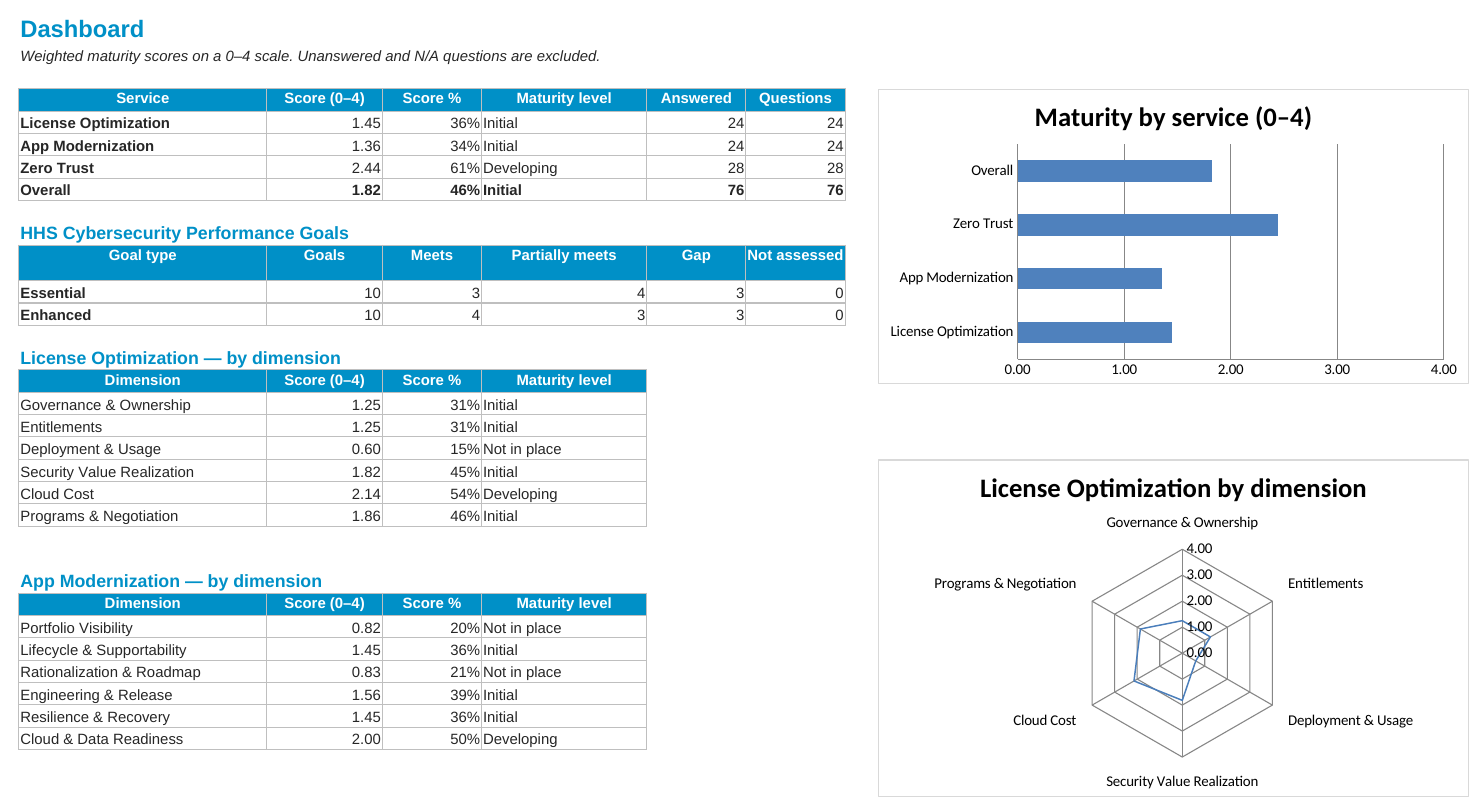
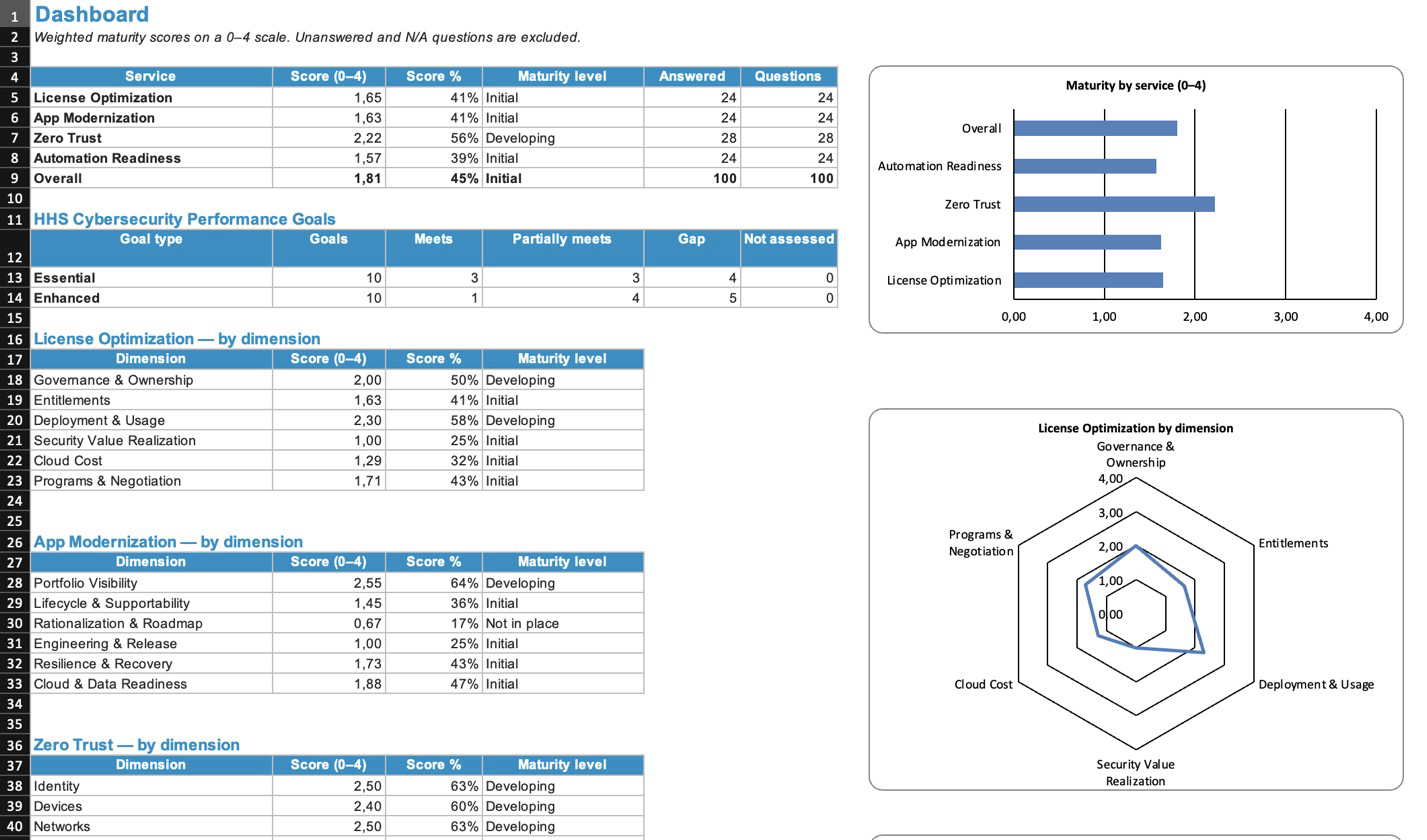
Refresh README screenshots and fix Excel chart display
Recapture the Dashboard and CPG Crosswalk images from the current
four-area workbook (illustrative sample answers, shown in Excel).

The Dashboard charts rendered poorly in Excel: openpyxl does not write the
axis "delete" flag, so the axis labels were hidden, and chart titles
overlapped the plot area. Set the flags, keep one colour per series, and give
the radar charts more height. Rebuild the workbook and its stored values.

diff --git a/tools/build_workbook.py b/tools/build_workbook.py
@@ -381,9 +381,13 @@ def build():
     bar.y_axis.scaling.min = 0
     bar.y_axis.scaling.max = 4
     bar.y_axis.majorUnit = 1
+    bar.x_axis.delete = False  # openpyxl omits this, and Excel then hides the axis labels
+    bar.y_axis.delete = False
     bar.add_data(Reference(db, min_col=2, min_row=4, max_row=overall_row), titles_from_data=True)
     bar.set_categories(Reference(db, min_col=1, min_row=5, max_row=overall_row))
     bar.legend = None
+    bar.title.overlay = False  # keep the title above the plot area in Excel
+    bar.varyColors = False
     bar.height, bar.width = 7, 14
     db.add_chart(bar, 'H4')
     anchor_row = 20
@@ -397,10 +401,14 @@ def build():
         rc.y_axis.scaling.min = 0
         rc.y_axis.scaling.max = 4
         rc.y_axis.majorUnit = 1
+        rc.x_axis.delete = False
+        rc.y_axis.delete = False
         rc.legend = None
-        rc.height, rc.width = 8, 14
+        rc.title.overlay = False
+        rc.varyColors = False
+        rc.height, rc.width = 10, 14
         db.add_chart(rc, f'H{anchor_row}')
-        anchor_row += 17
+        anchor_row += 21
 
     # ---------------- Priority Gaps ----------------
     pg = wb.create_sheet('Priority Gaps', 6)

diff --git a/CHANGELOG.md b/CHANGELOG.md
@@ -2,6 +2,15 @@
 
 All notable changes to this kit are documented here. Versions follow semantic versioning.
 
+## [Unreleased]
+
+### Fixed
+- Dashboard charts in Excel: the axis labels were hidden, chart titles overlapped the plot and each point had its own colour. The charts now show the category and value axes, one colour and a title above the plot, and the radar charts have more room for long dimension names.
+
+### Changed
+- The README opens with a plain-language explanation of the kit instead of release notes, and text that still described three areas now describes four.
+- The sample screenshots in `docs/images/` were recaptured from the current workbook (Excel, illustrative sample answers).
+
 ## [0.3.0] — 2026-11-19
 
 ### Added

diff --git a/README.md b/README.md
@@ -128,7 +128,7 @@ Answer honestly and based on evidence: a score of 3 or 4 means the practice is d
 
 ## 📸 See what you get
 
-The images below were produced from the workbook with **illustrative sample answers**. They do not describe any real organization. They were captured before the Automation Readiness area was added, so the Dashboard shows three areas; the current workbook shows four.
+The images below were produced from the workbook with **illustrative sample answers**. They do not describe any real organization.
 
 **Dashboard** — weighted scores by service and dimension, HHS goal summary and charts.
 
